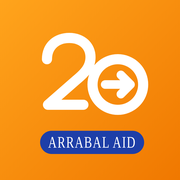
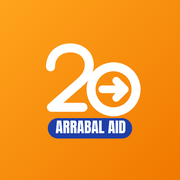
Icono ajustado para móviles con icono redondo; nombre corto Aula Virtual
Claude-Session: https://claude.ai/code/session_01WMsMhevfob6TcSsqM4rhGA

Changed region(s): [[0.2222, 0.1667, 0.8333, 0.8611]]

diff --git a/sw.js b/sw.js
@@ -1,6 +1,6 @@
 // Aula E2O: la página se pide siempre a internet (para que lleguen las novedades);
 // si no hay conexión, se usa la última copia guardada.
-const CACHE='aula-e2o-202611041557';
+const CACHE='aula-e2o-202611042203';
 self.addEventListener('install',e=>{self.skipWaiting();e.waitUntil(caches.open(CACHE).then(c=>c.addAll(['./','index.html','manifest.json','icons/icon-192.png','logos/e2o.jpg','logos/arrabal.png'])));});
 self.addEventListener('activate',e=>{e.waitUntil(caches.keys().then(k=>Promise.all(k.filter(n=>n!==CACHE).map(n=>caches.delete(n)))).then(()=>self.clients.claim()));});
 self.addEventListener('fetch',e=>{
